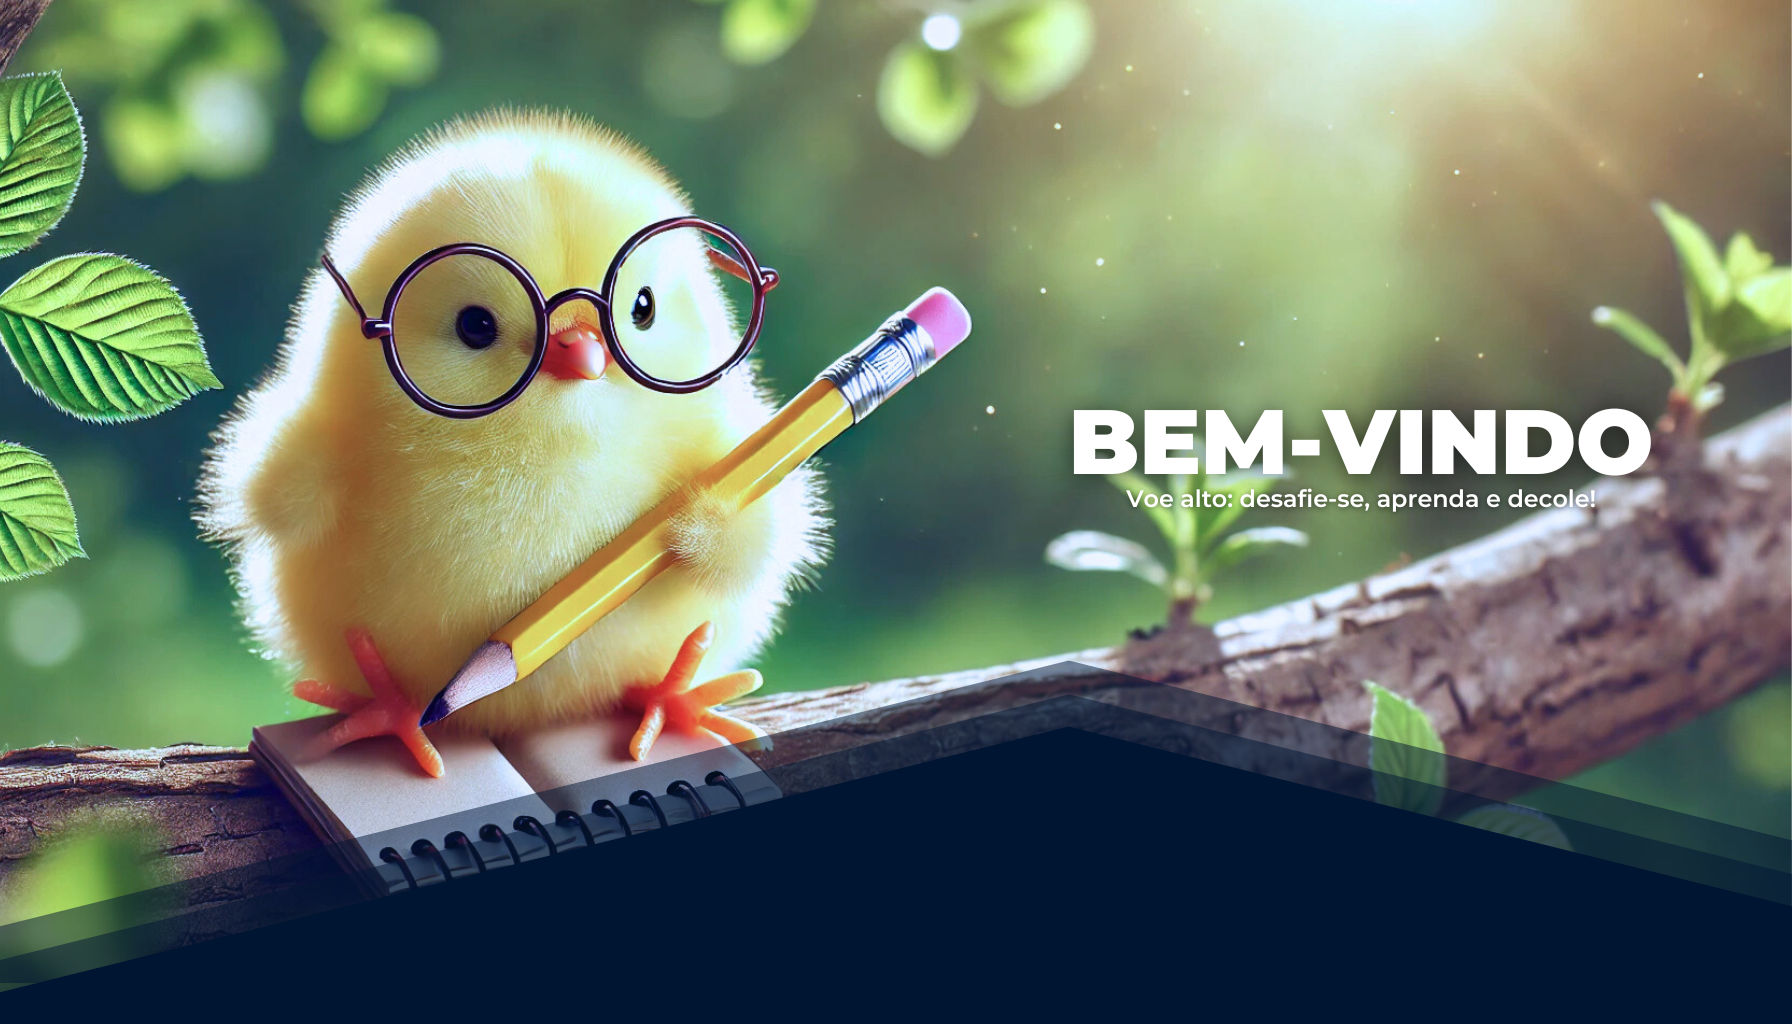
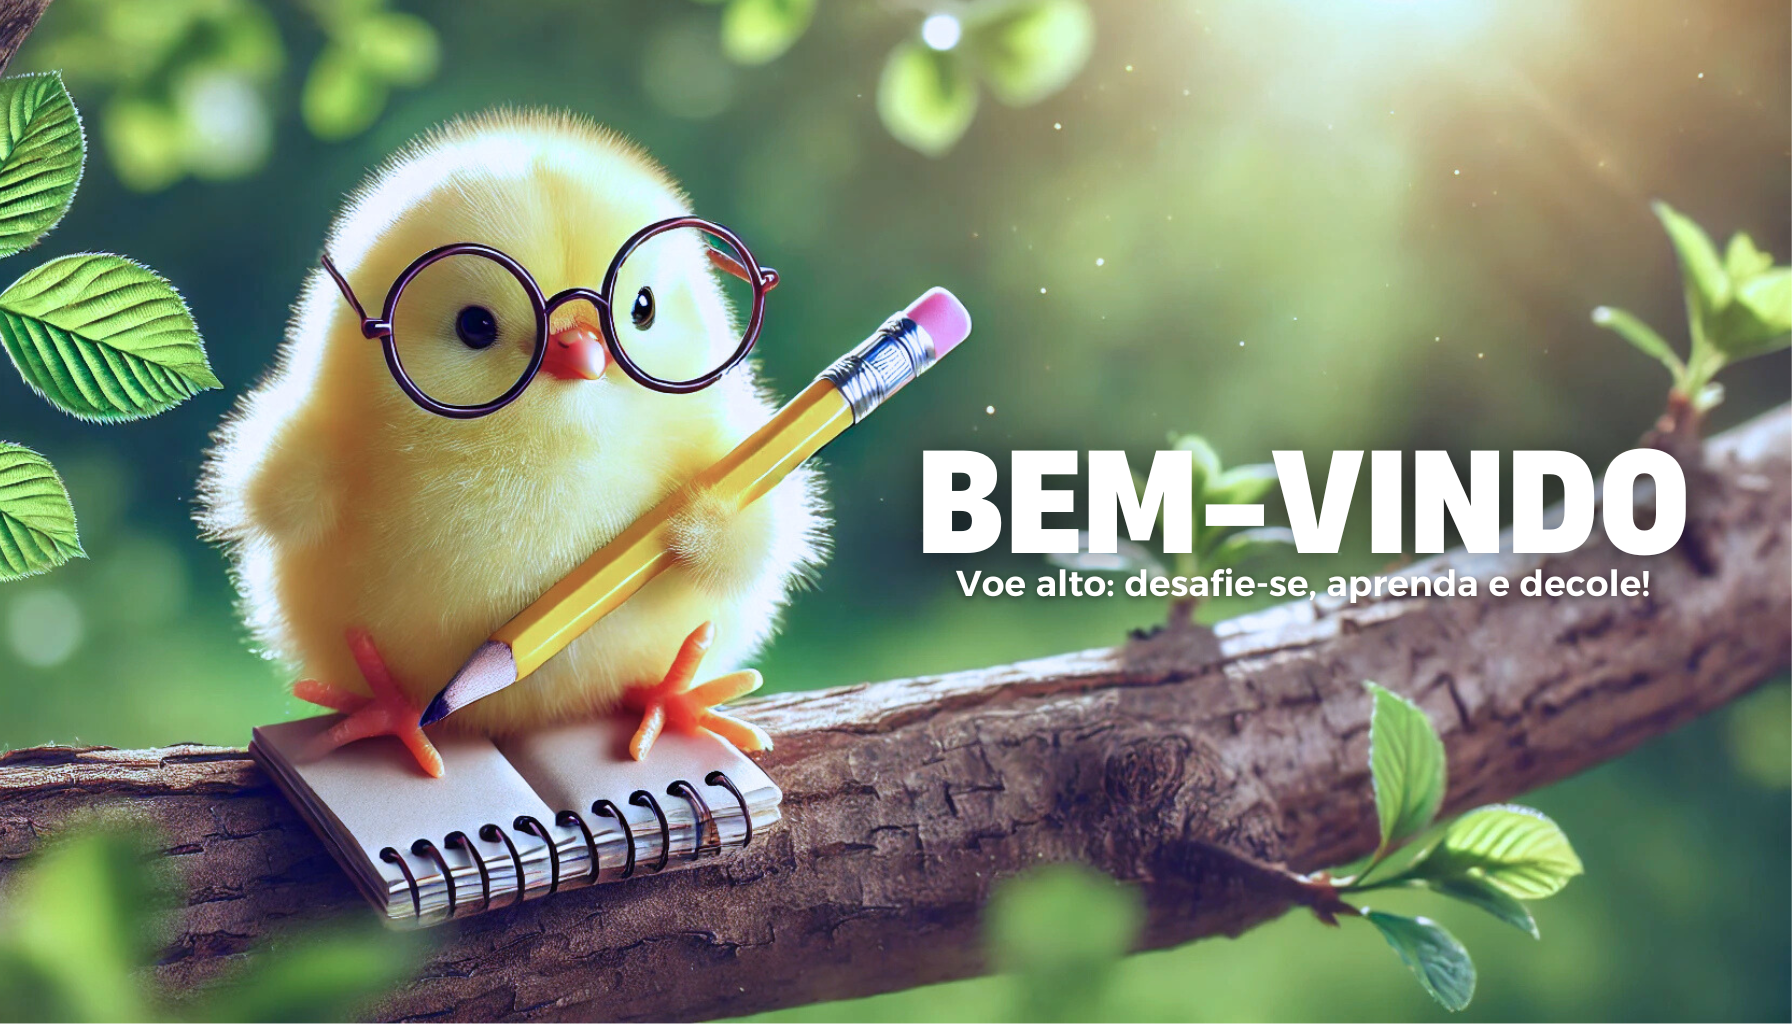
Botando mais ex-colaboradores

Changed region(s): [[0.0, 0.625, 1.0, 1.0], [0.5, 0.375, 0.9688, 0.5938]]

diff --git a/client/src/components/QuemSomos.js b/client/src/components/QuemSomos.js
@@ -29,6 +29,7 @@ import AlexandreMonte from './imgs/qs/Alexandre Monte.jpg';
 import GuilhermeAugusto from './imgs/qs/Guilherme Augusto.jpg';
 import LuisHenrique from './imgs/qs/Luis Henrique_.jpg';
 import HelenaMendes from './imgs/qs/Helena Mendes.jpg'
+import MiguelMenezes from './imgs/qs/Miguel Menezes.jpg'
 
 // Física
 
@@ -44,6 +45,7 @@ import WilliamAlves from './imgs/qs/William-Alves.jpg';
 import TobiasGabriel from './imgs/qs/Tobias Gabriel.jpg';
 import JailsonHenrique from './imgs/qs/Jailson Henrique.jpg';
 import LuizFernando from './imgs/qs/Luiz Fernando.jpg';
+import VictorHugo from './imgs/qs/Victor Hugo.jpg';
 
 // Matemática
 
@@ -67,6 +69,7 @@ import LuizClaudio from './imgs/qs/Luiz-Claudio.jpg';
 
 import GuilhermeSoares from './imgs/qs/Guilherme Soares.jpg';
 import IsabelaXenofonte from './imgs/qs/Isabela Xenofonte Martins.jpg';
+import RaissaLoana from './imgs/qs/Raissa Loana.jpg';
 
 // Ex Colaboradores
 
@@ -121,7 +124,7 @@ const QuemSomos = () => {
                     <img src={KauanEmanuel} class="imagem-circular"/>
                     <center>
                         <h3 class="fontezao3cor">Kauan Emanuel</h3>
-                        <h5 class="textozao">Diretor de Conteúdo</h5>
+                        <h5 class="textozao">Diretor de Mídia e Conteúdo</h5>
                     </center>
                 </div>
             </div>
@@ -143,6 +146,13 @@ const QuemSomos = () => {
                     <center>
                         <h3 class="fontezao3cor">Gustavo Globig</h3>
                         <h5 class="textozao">Editor de Vídeo</h5>
+                    </center>
+                </div>
+                <div class="membro">
+                    <img src={RebecaMikai} class="imagem-circular"/>
+                    <center>
+                        <h3 class="fontezao3cor">Rebeca Mikai</h3>
+                        <h5 class="textozao">Criadora de Posts</h5>
                     </center>
                 </div>
                 <div class="membro">
@@ -178,6 +188,7 @@ const QuemSomos = () => {
                         <h5 class="textozao">Criadora de Materiais</h5>
                     </center>
                 </div>
+                
                 <div class="membro">
                     <img src={FilipeYaHu} class="imagem-circular"/>
                     <center>
@@ -198,7 +209,7 @@ const QuemSomos = () => {
                     <img src={HelenaMendes} class="imagem-circular"/>
                     <center>
                         <h3 class="fontezao3cor">Helena Mendes</h3>
-                        <h5 class="textozao">Criador de Materiais</h5>
+                        <h5 class="textozao">Criadora de Materiais</h5>
                     </center>
                 </div>
                 <div class="membro">
@@ -218,20 +229,27 @@ const QuemSomos = () => {
 
             </div>
             <div class="equipe-container">
+                <div class="membro">
+                    <img src={MiguelMenezes} class="imagem-circular"/>
+                    <center>
+                        <h3 class="fontezao3cor">Miguel Menezes</h3>
+                        <h5 class="textozao">Criador de Materiais</h5>
+                    </center>
+                </div>
 
+                <div class="membro">
+                    <img src={NataliaRosa} class="imagem-circular"/>
+                    <center>
+                        <h3 class="fontezao3cor">Natália Rosa</h3>
+                        <h5 class="textozao">Criadora de Materiais</h5>
+                    </center>
+                </div>
 
                 <div class="membro">
                     <img src={PauloIsidro} class="imagem-circular"/>
                     <center>
                         <h3 class="fontezao3cor">Paulo Isidro</h3>
                         <h5 class="textozao">Criador de Materiais</h5>
-                    </center>
-                </div>
-                <div class="membro">
-                    <img src={NataliaRosa} class="imagem-circular"/>
-                    <center>
-                        <h3 class="fontezao3cor">Natália Rosa</h3>
-                        <h5 class="textozao">Criadora de Materiais</h5>
                     </center>
                 </div>
 
@@ -261,10 +279,6 @@ const QuemSomos = () => {
                         <h5 class="textozao">Criador de Materiais</h5>
                     </center>
                 </div>
-
-            </div>
-            <div class="equipe-container">
-
                 <div class="membro">
                     <img src={GustavoGlobig} class="imagem-circular"/>
                     <center>
@@ -272,6 +286,10 @@ const QuemSomos = () => {
                         <h5 class="textozao">Criador de Materiais</h5>
                     </center>
                 </div>
+            </div>
+            <div class="equipe-container">
+
+
 
                 <div class="membro">
                     <img src={JailsonHenrique} class="imagem-circular"/>
@@ -294,9 +312,6 @@ const QuemSomos = () => {
                         <h5 class="textozao">Criador de Materiais</h5>
                     </center>
                 </div>
-
-            </div>
-            <div class="equipe-container">
                 <div class="membro">
                     <img src={RebecaMikai} class="imagem-circular"/>
                     <center>
@@ -304,17 +319,20 @@ const QuemSomos = () => {
                         <h5 class="textozao">Criadora de Materiais</h5>
                     </center>
                 </div>
-                <div class="membro">
-                    <img src={TiagoRocha} class="imagem-circular"/>
-                    <center>
-                        <h3 class="fontezao3cor">Tiago Rocha</h3>
-                        <h5 class="textozao">Criador de Materiais</h5>
-                    </center>
-                </div>
+            </div>
+            <div class="equipe-container">
+
                 <div class="membro">
                     <img src={TobiasGabriel} class="imagem-circular"/>
                     <center>
                         <h3 class="fontezao3cor">Tobias Gabriel</h3>
+                        <h5 class="textozao">Criador de Materiais</h5>
+                    </center>
+                </div>
+                <div class="membro">
+                    <img src={VictorHugo} class="imagem-circular"/>
+                    <center>
+                        <h3 class="fontezao3cor">Victor Hugo</h3>
                         <h5 class="textozao">Criador de Materiais</h5>
                     </center>
                 </div>
@@ -349,7 +367,7 @@ const QuemSomos = () => {
                     <img src={FelipeMota} class="imagem-circular"/>
                     <center>
                         <h3 class="fontezao3cor">Felipe Mota</h3>
-                        <h5 class="textozao">Criador do Livro</h5>
+                        <h5 class="textozao">Criador do Livro de Cálculo</h5>
                     </center>
                 </div>
                 <div class="membro">
@@ -401,14 +419,14 @@ const QuemSomos = () => {
                     <img src={GuilhermeSoares} class="imagem-circular"/>
                     <center>
                         <h3 class="fontezao3cor">Guilherme Soares</h3>
-                        <h5 class="textozao">Criadora de Materiais</h5>
+                        <h5 class="textozao">Criador de Materiais</h5>
                     </center>
                 </div>
                 <div class="membro">
                     <img src={IsabelaXenofonte} class="imagem-circular"/>
                     <center>
                         <h3 class="fontezao3cor">Isabela Xenofonte</h3>
-                        <h5 class="textozao">Criador de Materiais</h5>
+                        <h5 class="textozao">Criadora de Materiais</h5>
                     </center>
                 </div>
                 <div class="membro">
@@ -427,14 +445,14 @@ const QuemSomos = () => {
                     <img src={AlefeRyan} class="imagem-circular"/>
                     <center>
                         <h3 class="fontezao3cor">Alefe Ryan</h3>
-                        <h5 class="textozao">Criador de Materiais</h5>
+                        <h5 class="textozao">Física</h5>
                     </center>
                 </div>
                 <div class="membro">
                     <img src={DanielaEmilia} class="imagem-circular"/>
                     <center>
                         <h3 class="fontezao3cor">Daniela Emília</h3>
-                        <h5 class="textozao">Criadora de Materiais</h5>
+                        <h5 class="textozao">Física </h5>
                     </center>
                 </div>
                 
@@ -442,14 +460,14 @@ const QuemSomos = () => {
                     <img src={GuilhermeGalvao} class="imagem-circular"/>
                     <center>
                         <h3 class="fontezao3cor">Guilherme Galvão</h3>
-                        <h5 class="textozao">Criador de Materiais</h5>
+                        <h5 class="textozao">Matemática</h5>
                     </center>
                 </div>
                 <div class="membro">
                     <img src={GuilhermeMartins} class="imagem-circular"/>
                     <center>
                         <h3 class="fontezao3cor">Guilherme Martins</h3>
-                        <h5 class="textozao">Criador de Materiais</h5>
+                        <h5 class="textozao">Física</h5>
                     </center>
                 </div>
                 
@@ -461,7 +479,7 @@ const QuemSomos = () => {
                     <img src={HeitorChaves} class="imagem-circular"/>
                     <center>
                         <h3 class="fontezao3cor">Heitor Chaves</h3>
-                        <h5 class="textozao">Criador de Materiais</h5>
+                        <h5 class="textozao">Física</h5>
                     </center>
                 </div>
 
@@ -469,7 +487,7 @@ const QuemSomos = () => {
                     <img src={JuliaLeguiza} class="imagem-circular"/>
                     <center>
                         <h3 class="fontezao3cor">Júlia Leguiza</h3>
-                        <h5 class="textozao">Criadora de Materiais</h5>
+                        <h5 class="textozao">Matemática</h5>
                     </center>
                 </div>
 
@@ -477,14 +495,14 @@ const QuemSomos = () => {
                     <img src={LeonardoTorres} class="imagem-circular"/>
                     <center>
                         <h3 class="fontezao3cor">Leonardo Torres</h3>
-                        <h5 class="textozao">Coordenador</h5>
+                        <h5 class="textozao">Química</h5>
                     </center>
                 </div>
                 <div class="membro">
                     <img src={MarcosVinicius} class="imagem-circular"/>
                     <center>
                         <h3 class="fontezao3cor">Marcos Vinícius</h3>
-                        <h5 class="textozao">Coordenador</h5>
+                        <h5 class="textozao">Matemática</h5>
                     </center>
                 </div>
             </div>
@@ -494,37 +512,44 @@ const QuemSomos = () => {
                     <img src={MariaClara} class="imagem-circular"/>
                     <center>
                         <h3 class="fontezao3cor">Maria Clara</h3>
-                        <h5 class="textozao">Criadora de Materiais</h5>
+                        <h5 class="textozao">Astronomia</h5>
                     </center>
                 </div>
                 <div class="membro">
                     <img src={NicholasLage} class="imagem-circular"/>
                     <center>
                         <h3 class="fontezao3cor">Nicholas Lage</h3>
-                        <h5 class="textozao">Criador de Materiais</h5>
+                        <h5 class="textozao">Astronomia</h5>
                     </center>
                 </div>
                 <div class="membro">
                     <img src={PedroHenrique} class="imagem-circular"/>
                     <center>
                         <h3 class="fontezao3cor">Pedro Henrique</h3>
-                        <h5 class="textozao">Criador de Materiais</h5>
+                        <h5 class="textozao">Matemática</h5>
                     </center>
                 </div>
                     <div class="membro">
                     <img src={PedroSaldanha} class="imagem-circular"/>
                     <center>
                         <h3 class="fontezao3cor">Pedro Saldanha</h3>
-                        <h5 class="textozao">Criador de Materiais</h5>
+                        <h5 class="textozao">Física</h5>
                     </center>
                 </div>
             </div>
             <div class="equipe-container">
                 <div class="membro">
+                    <img src={RaissaLoana} class="imagem-circular"/>
+                    <center>
+                        <h3 class="fontezao3cor">Raissa Loana</h3>
+                        <h5 class="textozao">Química</h5>
+                    </center>
+                </div>
+                <div class="membro">
                     <img src={RaulSztutman} class="imagem-circular"/>
                     <center>
                         <h3 class="fontezao3cor">Raul Sztutman</h3>
-                        <h5 class="textozao">Criador de Materiais</h5>
+                        <h5 class="textozao">Astronomia</h5>
                     </center>
                 </div>
                 <div class="membro">

diff --git a/client/src/index.css b/client/src/index.css
@@ -290,7 +290,7 @@ input::placeholder {
 }
 
 .img-passarinho {
-    width: 100%;
+    width: 93%;
 
     margin: 0 auto;
     padding: 0;
@@ -309,12 +309,12 @@ input::placeholder {
     display: flex !important;
     justify-content: center;
     gap: 10px;
-    bottom: 16px;
+    bottom: 30px;
 }
 
 /* Cada dot como uma barra horizontal */
 .slick-dots li {
-    width: 60px;
+    width: 70px;
     height: 6px;
     background-color: #ddd;
     border-radius: 4px;
@@ -341,7 +341,7 @@ input::placeholder {
     top: 0;
     height: 100%;
     width: 0%;
-    background-color: #eec259; /* Azul, pode personalizar */
+    background-color: #FFC211   ; /* Azul, pode personalizar */
     transition: width 0s;
 }
 

diff --git a/client/src/components/Home.js b/client/src/components/Home.js
@@ -85,7 +85,7 @@ const Home = () => {
                         </div>
                         <div class="video-responsive">
                             <iframe
-                                src="https://www.youtube.com/embed/SQ48JpyGa5o"
+                                src="https://www.youtube.com/embed/4QbzI082cfc"
                                 title="YouTube video player"
                                 frameborder="0"
                                 allow="accelerometer; autoplay; clipboard-write; encrypted-media; gyroscope; picture-in-picture"
